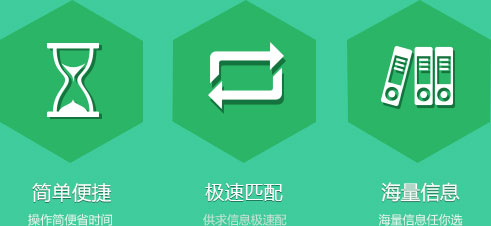
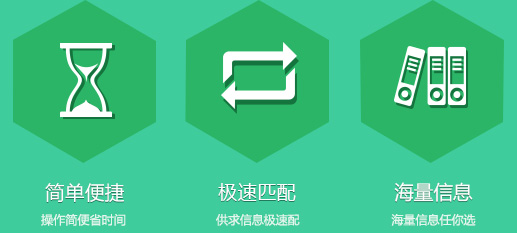
修改首页样式

diff --git a/public/css/index.css b/public/css/index.css
@@ -6,10 +6,11 @@
 a{color: #727272;}
 body{color: #727272;}
 
-#index{width: 1099px; height: 480px; margin: auto auto; background: url('/images/index_bg.jpg');}
-#index>.context{width: 100%; height: 481px;}
-#index .login_box{width: 205px; height: 207px; float: right; margin: 150px 176px auto auto;}
+#index{width: 1099px; height: 310px; margin: auto auto; background: url('/images/index_bg.jpg') 0px -100px;}
+#index>.context{width: 100%; height: 312px;}
+#index .login_box{width: 205px; height: 207px; float: right; margin: 50px 176px auto auto;}
 #index .login_box [type=checkbox]{vertical-align: text-top;}
+#index .login_box [type=text]{border: 0px;}
 #index .login_box label.error{margin-left: 58px; display: block;}
 #index .login_box .mobile{width: 134px; height: 33px; margin: 23px auto auto 58px;}
 #index .login_box .pwd{width: 134px; height: 33px; margin: 19px auto auto 58px;}
@@ -17,12 +18,12 @@ body{color: #727272;}
 #index .login_box .forget{margin-left: 40px; color: #5a80c2;}
 #index .login_box .login_btn{width: 180px; height: 31px; margin-left: 12px; background: url('/images/index_login_btn.jpg'); border: none;}
 
-#index .base_list{width: 1100px; height: 375px; padding-top: 55px;}
+#index .base_list{width: 1100px; height: 250px; padding-top: 35px;}
 #index .base_list>div{float: left;}
-#index .base_list .space{float: left; width: 2px; height: 300px; background: url('/images/index_base_list_space.jpg'); margin: auto 20px auto 20px;}
+#index .base_list .space{float: left; width: 2px; height: 200px; background: url('/images/index_base_list_space.jpg'); margin: auto 20px auto 20px;}
 #index .base_list .head .adorn{width: 22px; height: 22px; border-left: solid 4px #44b790; float: left;}
 #index .base_list .head .title{width: 495px; height: 23px; background: url('/images/index_base_list_title_bg.jpg') repeat-x scroll center bottom; float: left;}
-#index .base_list .head .title .more{float: right; width: 75px; height: 15px; background: url('/images/index_base_list_more.jpg');}
+#index .base_list .head .title .more{float: right; width: 77px; height: 16px; background: url('/images/index_base_list_more.jpg');}
 #index .base_list .list{margin-top: 20px;}
 #index .base_list .list ul{list-style: inside none square;}
 #index .base_list .list ul li{line-height: 24px;}
@@ -35,6 +36,9 @@ body{color: #727272;}
 #index .base_list .list .block6{width: 396px ;}
 #index .base_list .list .block7{width: 462px ;}
 
-#index .bottom_banner{width: 1099; height: 338px; background-color: #3fcc9c; border-top: solid 1px #d0d0d0;; border-bottom: solid 1px #d0d0d0;}
-#index .bottom_banner img{margin: 65px auto auto 310px;}
-#index .bottom_ad{width: 1099; height: 122px; border-top: solid 1px #d0d0d0;; border-bottom: solid 1px #d0d0d0; margin-top: 55px;}
+#index .bottom_banner{width: 1099; height: 260px; background-color: #3fcc9c; border-top: solid 1px #d0d0d0;; border-bottom: solid 1px #d0d0d0;}
+#index .bottom_banner img{margin: 17px auto auto 310px;}
+#index .bottom_ad{width: 1099; height: 122px; border-top: solid 1px #d0d0d0;; border-bottom: solid 1px #d0d0d0; margin-top: 10px;}
+
+#index .reg_btn1{width: 206px; height: 206px; margin: 50px auto auto 170px; float: left;}
+#index .reg_btn2{width: 206px; height: 206px; margin: 50px auto auto 68px; float: left;}

diff --git a/resources/views/index.blade.php b/resources/views/index.blade.php
@@ -15,6 +15,8 @@
 	<?php echo View::make('partials.index_header') ?>
 	<div id="index">
 		<div class="context">
+			<a href="/auth/create" class="reg_btn1"></a>
+			<a href="/auth/create" class="reg_btn2"></a>
 			<div class="login_box">
 				<form id="login_form" class="form-horizontal" method="POST" action="{{ url('/auth/login') }}">
 					<input type="hidden" name="_token" value="{{ csrf_token() }}">
@@ -65,7 +67,7 @@
 				<div class="head">
 					<div class="adorn"></div>
 					<div class="title">
-						<span class="txt">最新招工信息</span>
+						<span class="txt">最新招工雇人信息</span>
 						<a href="/works" class="more"></a>
 					</div>
 				</div>
